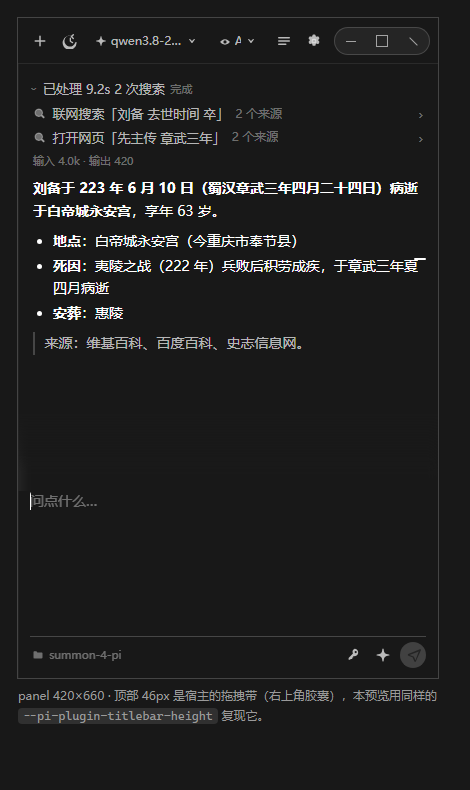
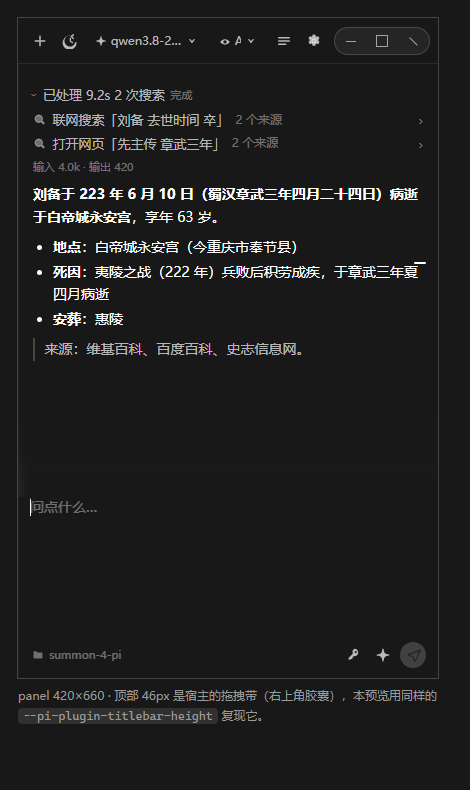
Drop the hairline above the composer buttons
It read as a stray line rather than a separator - the buttons already sit right
under the input.

diff --git a/plugins/local.summon-chat/renderer/index.html b/plugins/local.summon-chat/renderer/index.html
@@ -697,9 +697,8 @@ body { overflow: hidden; }
    一行放不下时项目名先截断（它有 title 提示，按钮没有替代品）。 */
 .composer-foot {
   display: flex; align-items: center; gap: .3rem;
-  margin-top: .3rem; padding-top: .35rem;
-  /* 比 --border 稍明显一点：分隔线是这一版新加的，太淡就一直有人问「按钮怎么飘着」。 */
-  border-top: 1px solid var(--border-strong, var(--border));
+  /* 不要分隔线了：用户说那条线很丑，而且按钮贴着输入区本来就够清楚。 */
+  margin-top: .3rem;
   min-width: 0;
 }
 .composer-foot .iconbtn { flex: 0 0 auto; }

diff --git a/plugins/local.summon-chat/renderer/renderer.template.html b/plugins/local.summon-chat/renderer/renderer.template.html
@@ -246,9 +246,8 @@ body { overflow: hidden; }
    一行放不下时项目名先截断（它有 title 提示，按钮没有替代品）。 */
 .composer-foot {
   display: flex; align-items: center; gap: .3rem;
-  margin-top: .3rem; padding-top: .35rem;
-  /* 比 --border 稍明显一点：分隔线是这一版新加的，太淡就一直有人问「按钮怎么飘着」。 */
-  border-top: 1px solid var(--border-strong, var(--border));
+  /* 不要分隔线了：用户说那条线很丑，而且按钮贴着输入区本来就够清楚。 */
+  margin-top: .3rem;
   min-width: 0;
 }
 .composer-foot .iconbtn { flex: 0 0 auto; }
